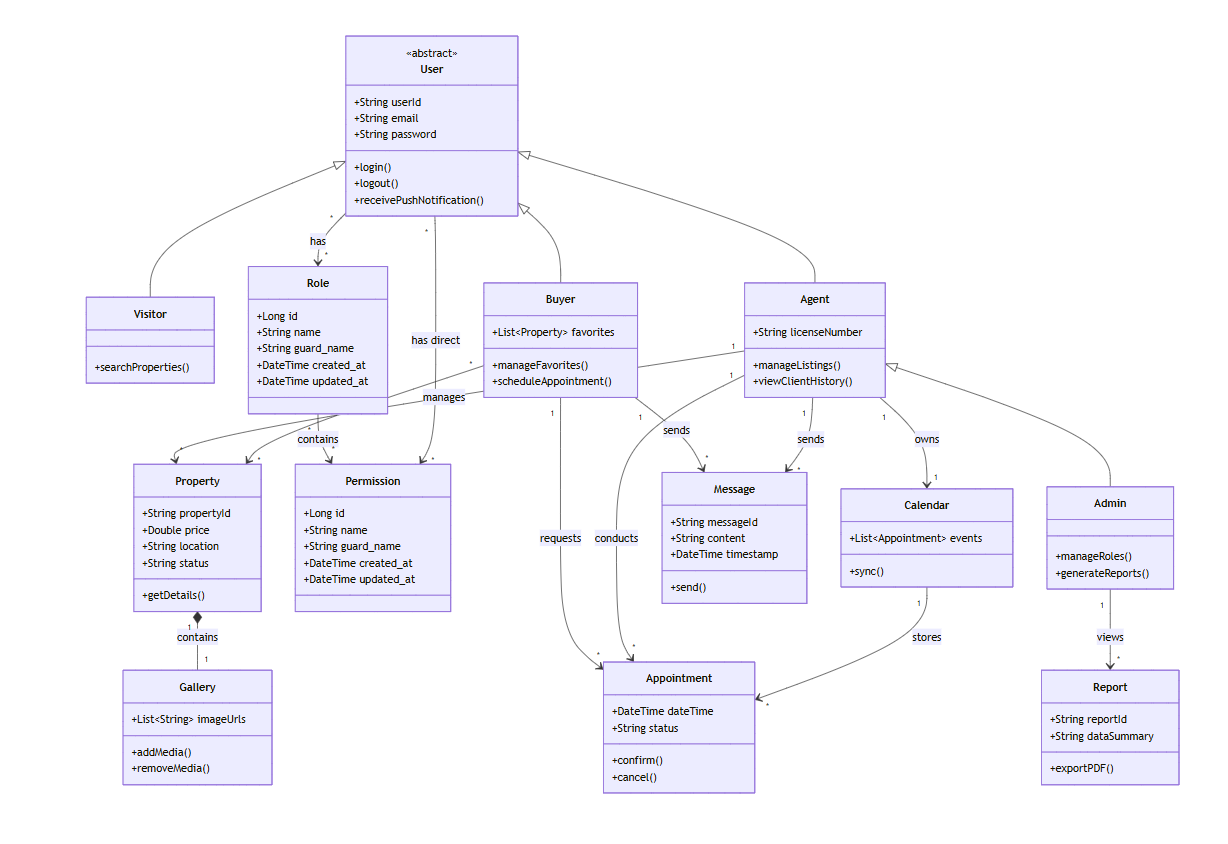
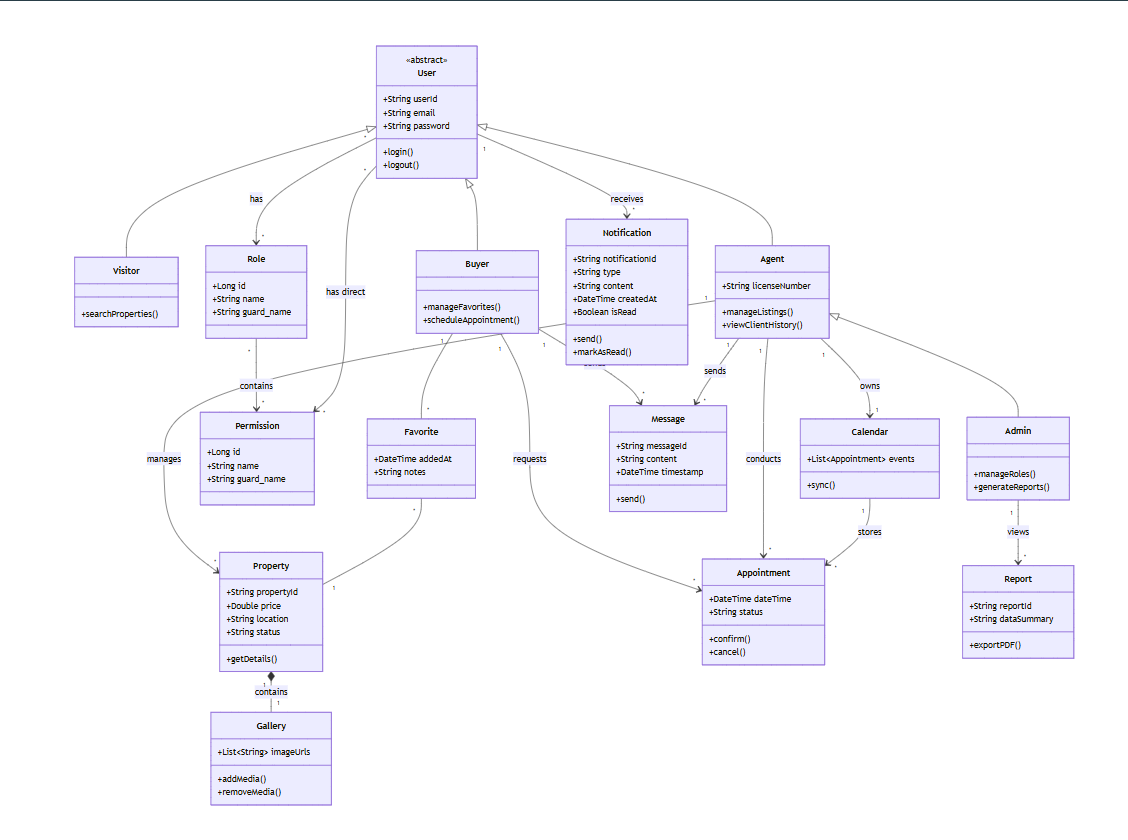
updated

diff --git a/Presentation/Presentation.md b/Presentation/Presentation.md
@@ -149,7 +149,7 @@ style: |
 ## 2. Methodology: Scrum (Agile)
 
 <div class="img-container">
-  <img src="images/scrum.webp" class="img-methodo" alt="Scrum">
+  <img src="images/scrum.jpg" class="img-methodo" alt="Scrum">
 </div>
 
 ---
